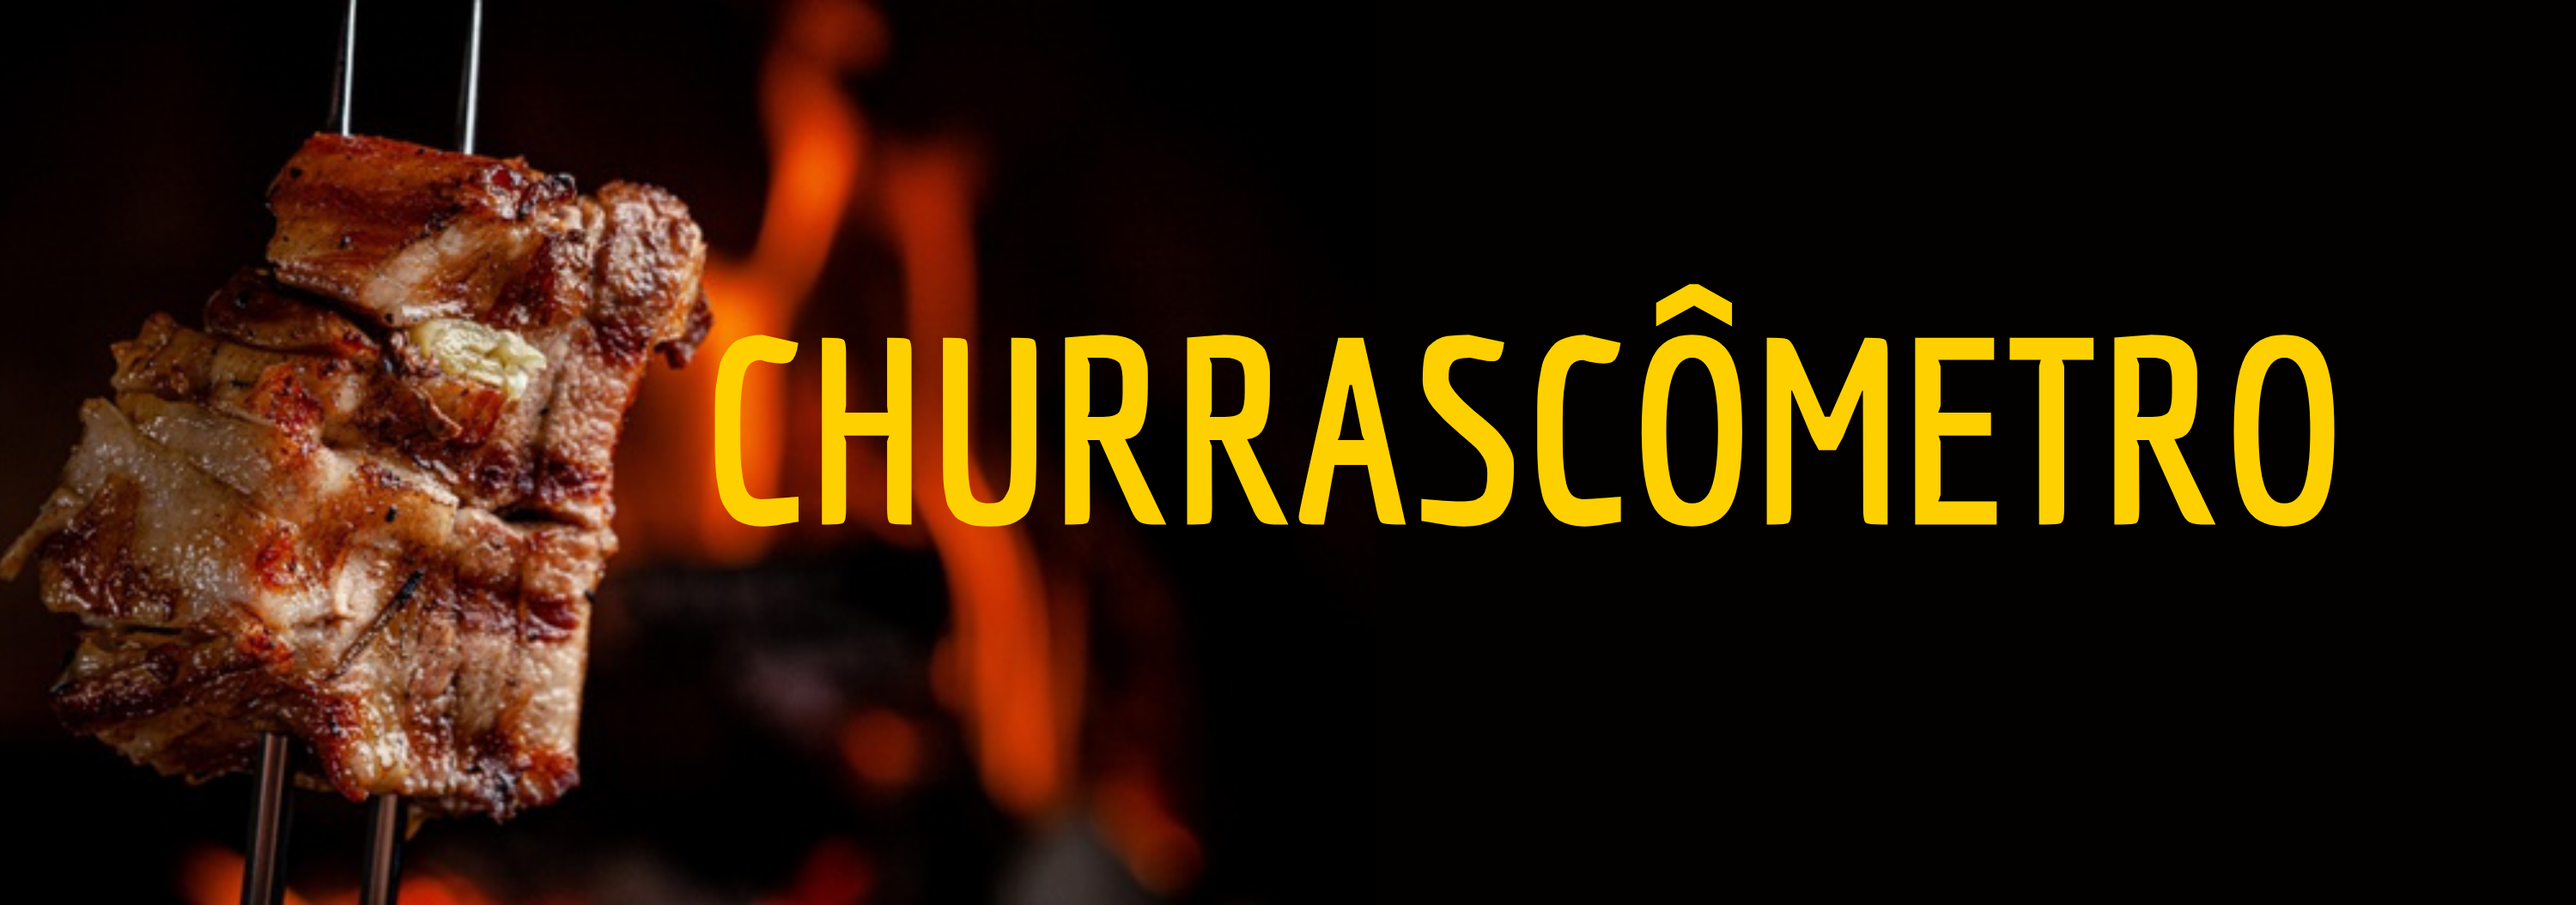
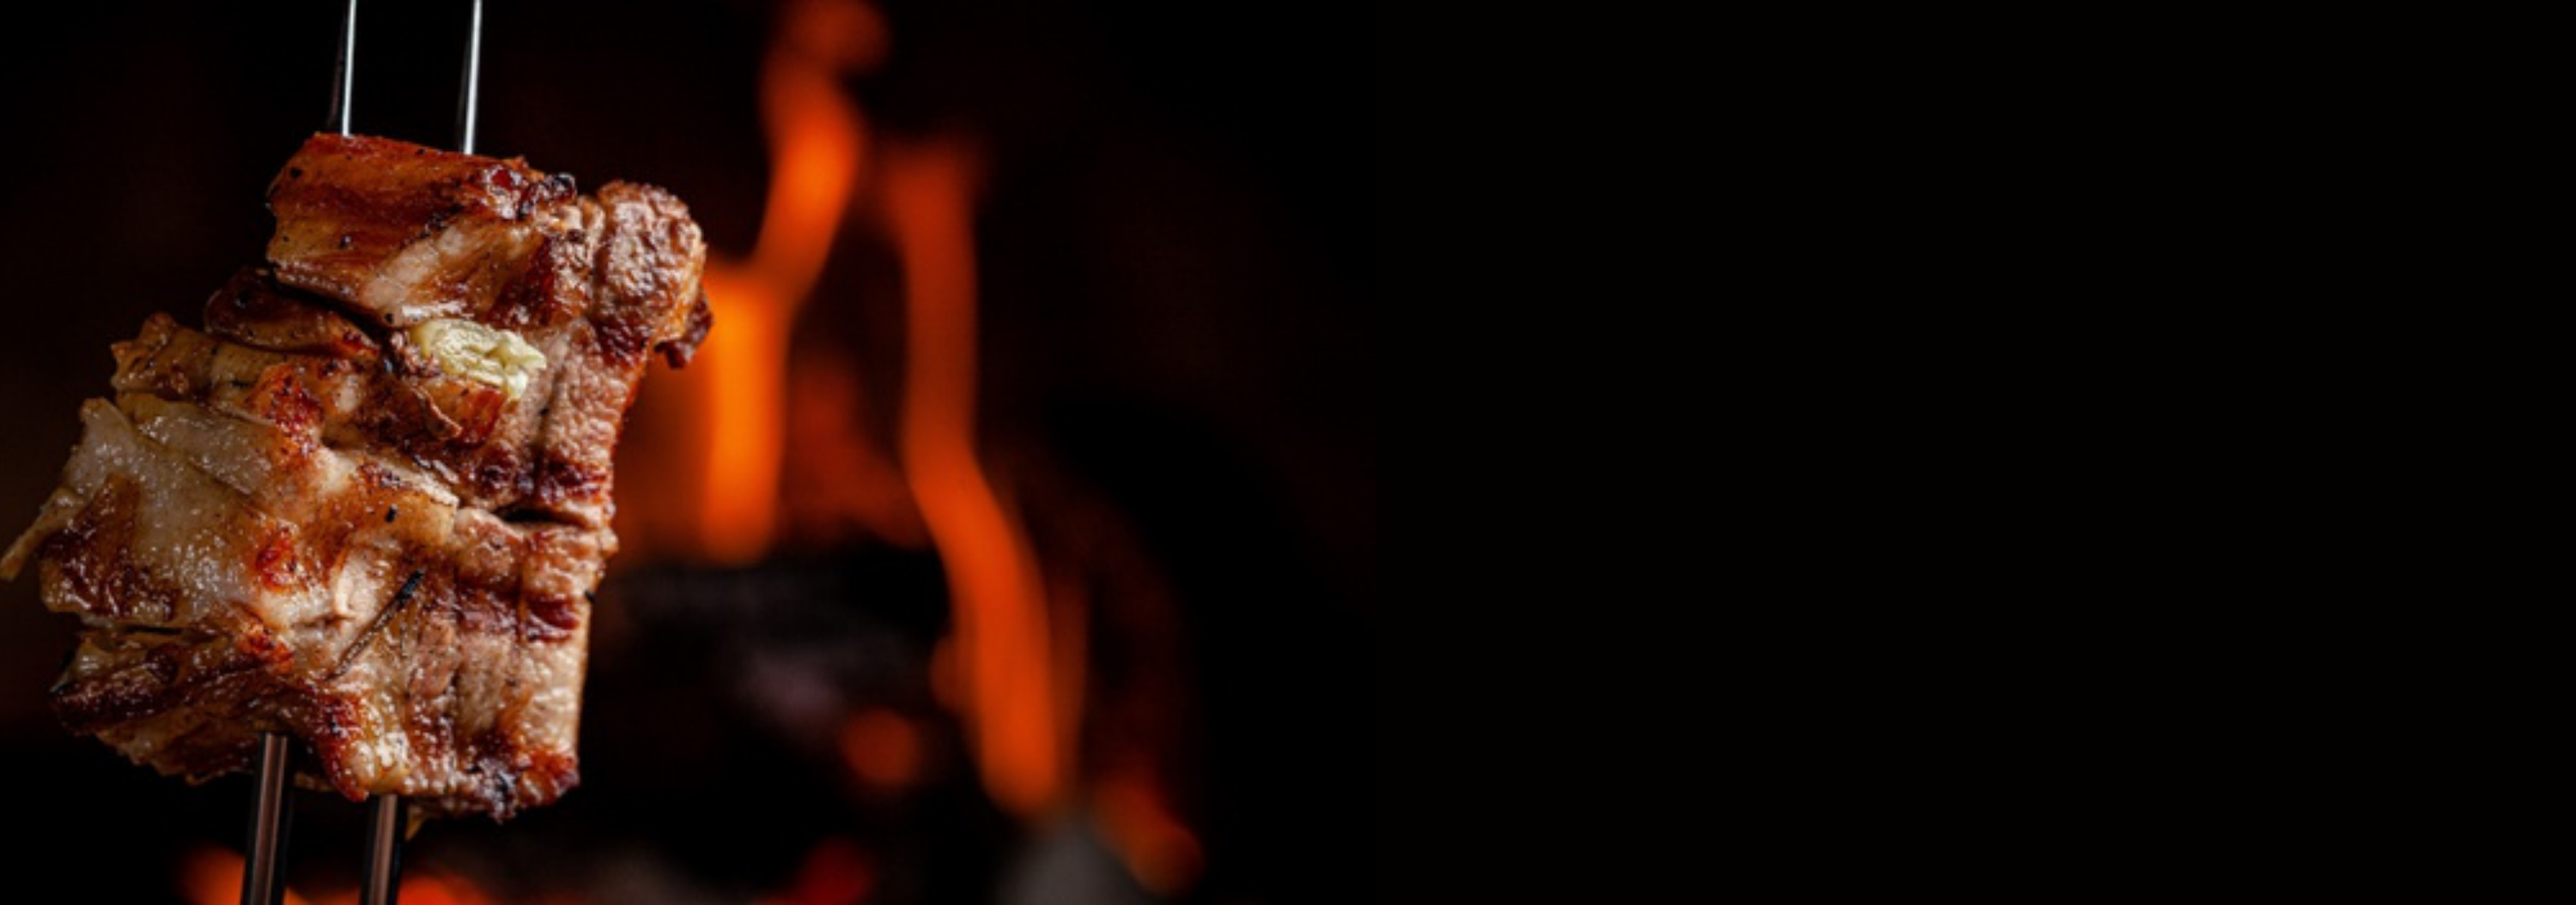
update

Changed region(s): [[0.279, 0.3033, 0.93, 0.6066]]

diff --git a/CSS/style.css b/CSS/style.css
@@ -7,10 +7,27 @@ body{
 
     font-family: 'Signika Negative', sans-serif;
 }
-.banner
+header
 {
     max-width: 100%;
+    height: 500px;
+
+    background-image:url(../Assets/background.jpg);
     background-size:cover;
+    background-attachment: fixed;
+
+    position:relative;
+
+}
+.logo{
+
+    width: 400px;
+
+
+    position:absolute;
+    top:50%;
+    left:50%;
+    transform:translate(-50%, -50%);
 
 }
 
@@ -144,7 +161,7 @@ li{
 
 .icone{
     width: 80px;
-    height: 80px;
+
 
 }
 #sugestao{
@@ -155,9 +172,23 @@ li{
 }
 /* Aqui começam as medias queries ----------------------------------------------------------*/
 
+@media screen and (max-width:900px){
+
+    .logo {
+            width:300px;
+        
+        }
+    
+    }
+
 @media screen and (max-width:600px){
 
-.banner {
+    .logo {
+        width:200px;
+    
+    }    
+
+header {
         height:250px;
     
     }
@@ -166,7 +197,12 @@ li{
 
 @media screen and (max-width:400px){
 
-    .banner {
+    .logo {
+        width:170px;
+    
+    }
+
+    header {
             height:200px;
         
         }
@@ -178,9 +214,27 @@ li{
     
     }
 
+    @media screen and (max-width:300px){
+
+        .logo {
+            width:130px;
+        
+        }
+
+        .icone{
+            width:40px;
+        }
+    }
+
+
 @media screen and (max-width:200px){
 
-        .banner {
+        .logo {
+            width: 90px;
+        
+        }
+
+        header {
                 height:120px;
             
         } 
@@ -203,4 +257,5 @@ li{
         }
         
 
-        }   
+        }
+       

diff --git a/index.html b/index.html
@@ -12,7 +12,7 @@
 
 </head>
 <body>
-    <header><img src="./Assets/banner.png" class="banner"></header>
+    <header class="banner"><img src="./Assets/icone.png" alt="Logo Churrascometro" type="image/png" class="logo"></header>
 
      <div class="container">     
 
